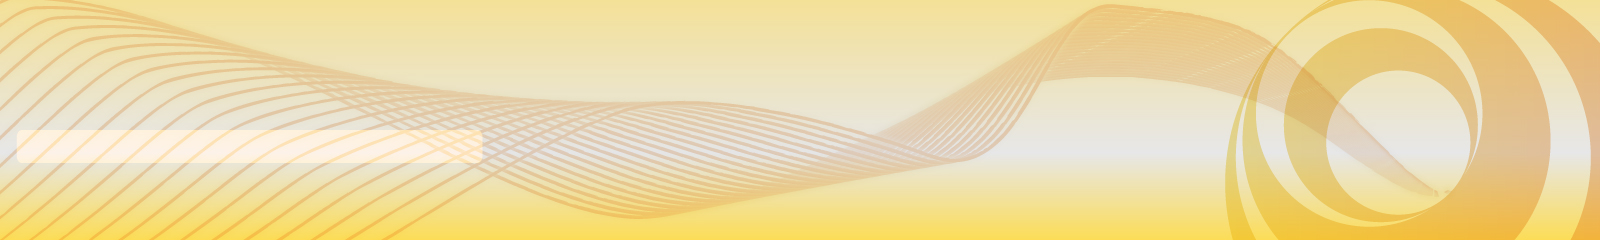
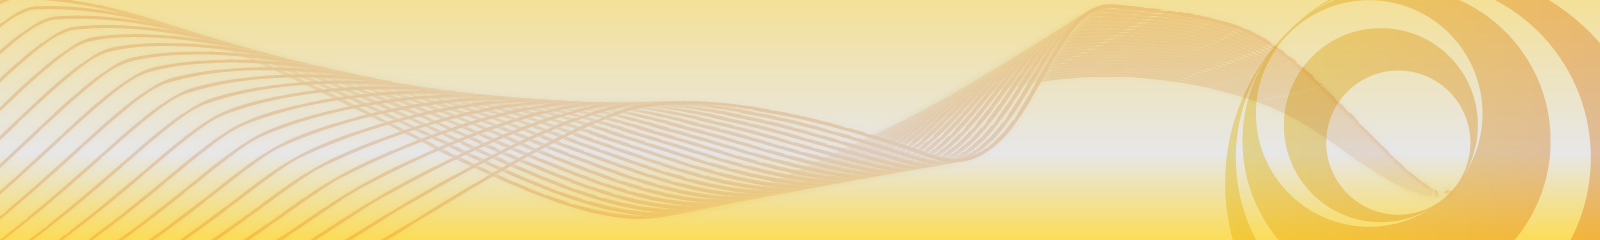
design transparent search box
git-svn-id: file:///home/node/svn/algodat/fahrplanauskunft@118 1a30a1b9-0fc7-4f74-b692-49697e487d08

Changed region(s): [[0.0, 0.525, 0.3125, 0.6708]]

diff --git a/style.css b/style.css
@@ -44,3 +44,21 @@ border:0px;
 {
 	font-size:12px
 }
+
+.border
+{
+
+-webkit-border-radius: 8px;
+-khtml-border-radius: 8px;
+-moz-border-radius: 8px;
+border-radius: 8px;
+background-image:url(pics/vista_aero.png);
+
+}
+.transparent_class 
+{
+	filter:alpha(opacity=50);
+	-moz-opacity:0.5;
+	-khtml-opacity: 0.5;
+	opacity: 0.5;
+}

diff --git a/index.php b/index.php
@@ -16,19 +16,23 @@
 				<table>
 					<tr>
 						<td>
-									<div id ="title">
-										<img src="pics/header.png" /><!--<h1>Fahrplanauskunft U-Bahn Wien</h1>-->
-									</div>
+							<div id ="title">
+								<img src="pics/header.png" /><!--<h1>Fahrplanauskunft U-Bahn Wien</h1>-->
+							</div>
 						</td>
 					</tr>
 				</table>
-				<table>
-					<tr>
-						<td>Start:</td><td><input type='text' name='start' <?php if(isset($_GET['start'])) echo "value='".$_GET['start']."'"; ?>onkeypress='noenter(event);'/></td>
-						<td>Ziel:</td><td><input type='text' name='end' <?php if(isset($_GET['end'])) echo "value='".$_GET['end']."'"; ?>onkeypress='noenter(event)'/></td>
-						<td><input type='button' value='suchen' onSubmit='getXML()' onclick='getXML()'/></td>
-					</tr>
-				</table>
+				
+
+					<div class="border">
+						<table>
+							<tr>
+								<td>Start:</td><td><input class='transparent_class' type='text' name='start' <?php if(isset($_GET['start'])) echo "value='".$_GET['start']."'"; ?>onkeypress='noenter(event);'/></td>
+								<td>Ziel:</td><td><input class='transparent_class' type='text' name='end' <?php if(isset($_GET['end'])) echo "value='".$_GET['end']."'"; ?>onkeypress='noenter(event)'/></td>
+								<td><input type='button' value='suchen' onSubmit='getXML()' onclick='getXML()'/></td>
+							</tr>
+						</table>
+					</div>			
 			</form>
 		</td>
 	</tr>
@@ -39,12 +43,12 @@
 	</tr>		
 	<tr>
 		<td>
-			<div name='time'></div>
+			<div class="border" name='time'></div>
 		</td>
 	</tr>
 	</table>
 	</div>
-	<script src="http://maps.google.com/maps?file=api&v=2&key=ABQIAAAAzf03MVeHzU_wJ2vX5hn7zRRIFV45slZifYGa4RUcYNz-B1Cj2RRE8AfSxR8gxJM8apFR4c-ItN7yHQ" type="text/javascript"></script>
+	<script src=" " type="text/javascript"></script>
     <script type="text/javascript" src="mapstraction.js"></script>
 	<div id="mapstraction" style="position:left;  height: 600px; width: 100%; border: 1px solid black"></div>
 	<script src="jquery.js" type="text/javascript"></script>
